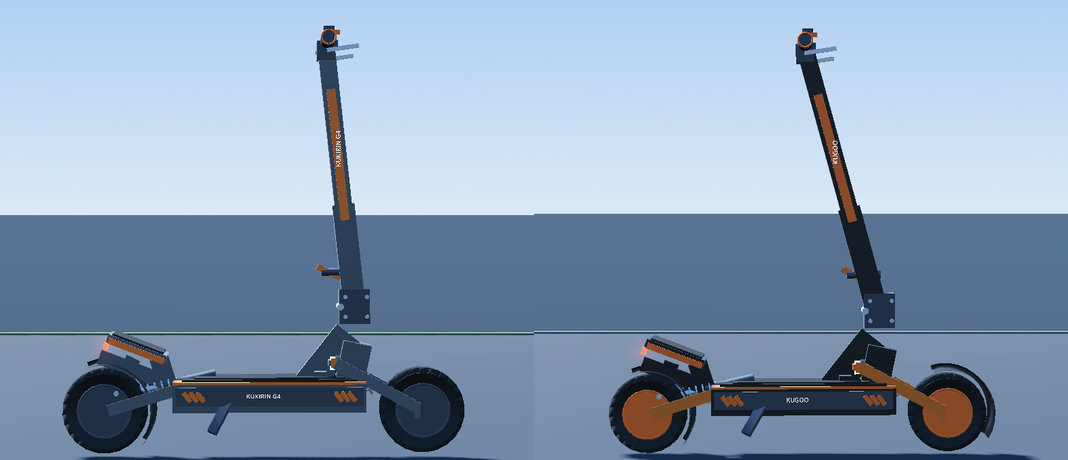
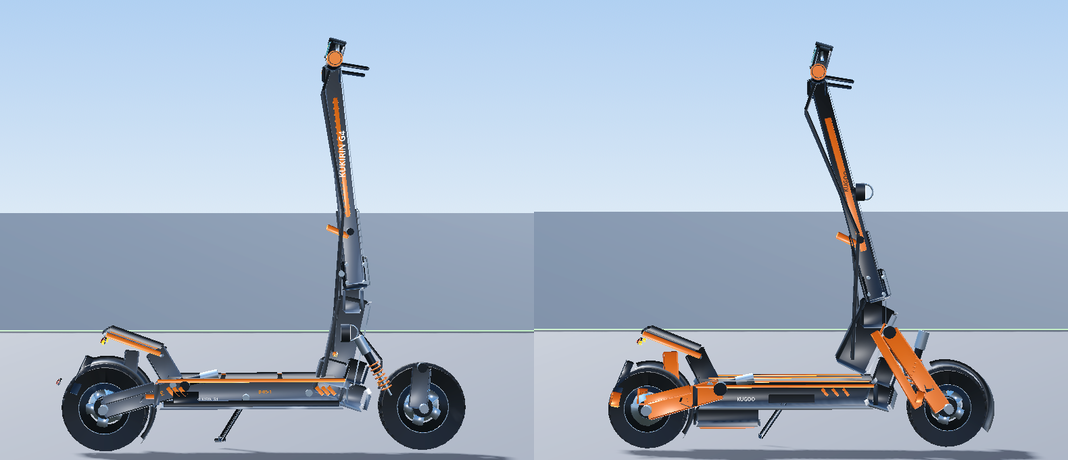
docs: the two models are separate builds, describe the dashboard and per-model differences

diff --git a/docs/MODELS.md b/docs/MODELS.md
@@ -1,40 +1,50 @@
 # 3D-модели
 
-## 0. Godot-порт: модели собраны по реальным фотографиям
+## 0. Godot-порт: две разные модели, собранные по фотографиям
 
-В Godot-версии самокаты строятся процедурно в `godot/scripts/scooter_model.gd`
-(`ScooterModel.build(spec)`), форма сверялась по фотографиям реальных
-KuKirin G4 и Kugoo F3 Pro Max. Бинарных ассетов в репозитории нет: вся геометрия —
-примитивы и `SurfaceTool` (шины, крылья, спицы, протектор).
+В Godot-версии самокаты строятся процедурно, но **каждый своим кодом**:
 
-![сверка с фото](images/models-side-by-side.png)
+* `godot/scripts/scooter_model_base.gd` — общая база: фаскованные корпуса
+  (`SurfaceTool`), кольцевые шины с тремя рядами шашек, спицевые обода с дисками
+  и суппортами, тросы-трубы по ломаной, амортизаторы с витками, руль и
+  **бортовой компьютер** (корпус с козырьком, экран с цифрами скорости, деления
+  батареи, кнопки, замок зажигания с ключом);
+* `godot/scripts/g4_model.gd` — KuKirin G4;
+* `godot/scripts/f3_model.gd` — Kugoo F3 Pro Max;
+* `godot/scripts/scooter_model.gd` — точка входа `ScooterModel.build(spec)`.
 
-Слева — фото G4, справа — рендер из CI (`g4_1_side.png`). Снимок делается длиннофокусной
-камерой (`fov 15°`, 6.2 м), чтобы перспектива не искажала сравнение.
+Бинарных ассетов в репозитории нет: вся геометрия — примитивы и `SurfaceTool`.
+Снимки для сверки (`*.png` на ветке `ci-screenshots`) снимаются длиннофокусной
+камерой (`fov 15°`, 6.2 м) при двух мягких заполняющих источниках, чтобы
+перспектива и тени не мешали сравнению с фото продукта.
 
-### Что перенесено с фото
+![обе модели рядом](images/models-side-by-side.png)
 
-| Элемент | KuKirin G4 | Kugoo F3 Pro Max |
+### Чем модели отличаются друг от друга
+
+| Узел | KuKirin G4 | Kugoo F3 Pro Max |
 |---|---|---|
-| Дека | короб-аккумулятор: низ на уровне осей, верх +0.10 м над осями; гриптейп, оранжевая кромка, шевроны, наклейка бренда | короб +0.095 м, чёрный, оранжевая кромка |
-| Колёса | 11″: широкое кольцо-шина, 24 зубастых шашки, спицевой обод, кольцо по краю, тормозной диск снаружи | 10″: то же, кольцо обода оранжевое |
-| Подвеска | рычаги (trailing arm) спереди и сзади с наклоном 12–18°, пружинные амортизаторы с витками | те же рычаги, оранжевые |
-| Стойка | плоская труба 46–58 мм в глубину, наклон ~5° назад, замок складывания с болтами и быстросъёмом, руль на 1.22 м, деколь `KUKIRIN G4` | чёрная стойка с оранжевой полосой и деколью `KUGOO` |
-| Зад | приподнятая площадка на треугольном кронштейне, стоп-сигнал на корме, крыло по шине | та же площадка, компактнее |
-| Передок | крупная треугольная косынка от деки к стойке, фара в шее, **переднего крыла нет** | косынка + переднее крыло |
+| Дека | серая, «короб» с оранжевой кромкой, шевроны и `B-05-1` по бортам | чёрная, оранжевая графика сверху, белая накладка `KUGOO`, батарейный блок снизу |
+| Стойка | почти вертикальная (6°), плоская труба, замок складывания у основания | завалена назад на 15°, оранжевая графика, **фара на самой стойке** |
+| Передняя подвеска | рычаг из стакана под углом ~23°, амортизатор с оранжевой пружиной | оранжевая вилка под ~55°, отдельный пружинный амортизатор |
+| Задняя подвеска | серый рычаг + амортизатор | оранжевый рычаг + красный суппорт |
+| Колёса | 11″, обод тёмный со спицами, диск снаружи | 10″, обод с оранжевым кантом, хаб-мотор спереди и сзади |
+| Крылья | только заднее (у G4 переднего нет) | переднее и заднее |
+| Задняя площадка | уже и ниже | шире, с оранжевыми кромками |
+| Руль и приборы | компактный экран 0.85 | широкий бортовой компьютер 1.15 |
 
 ### Что упрощено (честный список)
 
-* рычаги подвески — плоские пластины, а не фрезерованные профили с рёбрами;
-* амортизатор — стакан и витки-кольца, без бачка и регулировок;
-* обод — два диска и пять спиц на сторону, а не литой рисунок;
-* шина — кольцо с шашками, без тонкого профиля боковины;
-* надписи — `Label3D`, поэтому они не «запечены» в текстуру и вблизи выглядят условно;
-* проводка, тросики, зеркала и ключ не моделируются;
-* у F3 оранжевые кромки сделаны блоками, а не графикой с фото.
+* рычаги и вилки — балки с фаской, без фрезерованных рёбер и литых карманов;
+* амортизатор — корпус и кольца-витки, без бачка, отбоя и регулировок;
+* обод — кольцо и пять спиц на сторону, а не литой рисунок;
+* шина — кольцо с шашками, без точного профиля боковины;
+* надписи — `Label3D`, они не «запечены» в текстуру;
+* проводка показана двумя-тремя жгутами, реальные крепления и ключи мельче;
+* у F3 нет отдельных мелких наклеек с фотографии (только основные).
 
-Размеры (база, высота деки, вылет руля) берутся из `ScooterSpec`, поэтому правка паспортных
-данных меняет модель и физику вместе.
+Размеры (база, высота деки, вылет руля) берутся из `ScooterSpec`, поэтому правка
+паспортных данных меняет модель и физику вместе.
 
 ## 1. Unity-версия (архив, порт заброшен)
 
